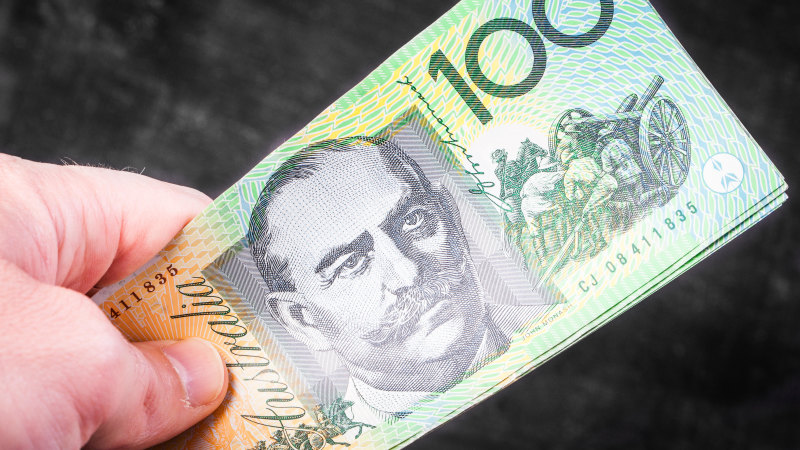
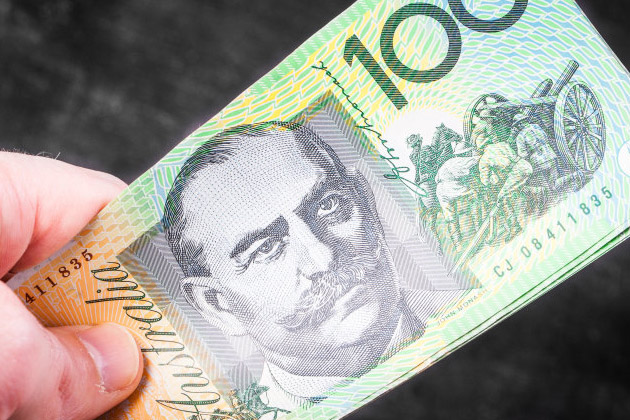
fix carousel sizing

diff --git a/src/views/home/home.js b/src/views/home/home.js
@@ -1,5 +1,5 @@
-import React, {useState} from 'react';
-import { cash, stonks, logo } from '../../assets';
+import React, { useState } from 'react';
+import { cash, stonks, aud } from '../../assets';
 import Carousel from 'react-bootstrap/Carousel';
 import './home.scss';
 
@@ -11,41 +11,44 @@ const Home = () => {
   };
 
   return (
-    <Carousel activeIndex={index} onSelect={handleSelect}>
-      <Carousel.Item>
-        <img
-          className="d-block w-100"
-          src={cash}
-          alt="First slide"
-        />
-        <Carousel.Caption>
-          <h3>Track your spending!</h3>
-          <p>Keep track of the state of your various banking accounts, and aggregate them to form a complete picture of your savings.</p>
-        </Carousel.Caption>
-      </Carousel.Item>
-      <Carousel.Item>
-        <img
-          className="d-block w-100"
-          src={stonks}
-          alt="Second slide"
-        />
-        <Carousel.Caption>
-          <h3>Track your investments!</h3>
-          <p>Are you an avid investor? Never get lost in the many exchange codes you hold in so many various different share registries.</p>
-        </Carousel.Caption>
-      </Carousel.Item>
-      <Carousel.Item>
-        <img
-          className="d-block w-100"
-          src={logo}
-          alt="Third slide"
-        />
-        <Carousel.Caption>
-          <h3>Build Savings strategies!</h3>
-          <p>Looking for a path to FHIR? Calculate your savings rates, and figure out where you can cut your spending to reach your goals!</p>
-        </Carousel.Caption>
-      </Carousel.Item>
-    </Carousel>
-  )};
+    <div className="mt-4">
+      <Carousel activeIndex={index} onSelect={handleSelect}>
+        <Carousel.Item>
+          <img
+            className="d-block w-100"
+            src={cash}
+            alt="First slide"
+          />
+          <Carousel.Caption>
+            <h3>Track your spending!</h3>
+            <p>Keep track of the state of your various banking accounts, and aggregate them to form a complete picture of your savings.</p>
+          </Carousel.Caption>
+        </Carousel.Item>
+        <Carousel.Item>
+          <img
+            className="d-block w-100"
+            src={stonks}
+            alt="Second slide"
+          />
+          <Carousel.Caption>
+            <h3>Track your investments!</h3>
+            <p>Are you an avid investor? Never get lost in the many exchange codes you hold in so many various different share registries.</p>
+          </Carousel.Caption>
+        </Carousel.Item>
+        <Carousel.Item>
+          <img
+            className="d-block w-100"
+            src={aud}
+            alt="Third slide"
+          />
+          <Carousel.Caption>
+            <h3>Build Savings strategies!</h3>
+            <p>Looking for a path to FHIR? Calculate your savings rates, and figure out where you can cut your spending to reach your goals!</p>
+          </Carousel.Caption>
+        </Carousel.Item>
+      </Carousel>
+    </div>
+  )
+};
 
 export default Home;

diff --git a/public/index.html b/public/index.html
@@ -14,6 +14,10 @@
       rel="stylesheet"
       href="https://cdnjs.cloudflare.com/ajax/libs/twitter-bootstrap/4.5.3/css/bootstrap.min.css"
     />
+    <link
+      rel="stylesheet"
+      href="%PUBLIC_URL%/styles.css"
+    />
     <!--
       manifest.json provides metadata used when your web app is installed on a
       user's mobile device or desktop. See https://developers.google.com/web/fundamentals/web-app-manifest/

diff --git a/src/components/app/app.js b/src/components/app/app.js
@@ -2,10 +2,11 @@ import React from 'react';
 import Header from '../header/header';
 import Body from '../body/body';
 import Footer from '../footer/footer';
+import './app.scss';
 
 const App = () => {
   return (
-      <div>
+      <div className="app-background">
         <Header />
         <Body />
         <Footer />

diff --git a/src/assets/index.js b/src/assets/index.js
@@ -1,3 +1,4 @@
 export { default as cash } from './cash.jpg';
+export { default as aud } from './aud.jpg';
 export { default as logo } from './logo.png';
 export { default as stonks } from './stonks.png';

diff --git a/src/components/app/app.scss b/src/components/app/app.scss
@@ -1,0 +1,4 @@
+.app-background {
+    background-color: #C4DBF2;
+    height:100%;
+}

diff --git a/public/styles.css b/public/styles.css
@@ -1,0 +1,3 @@
+body {
+    min-height: 100%;
+}
